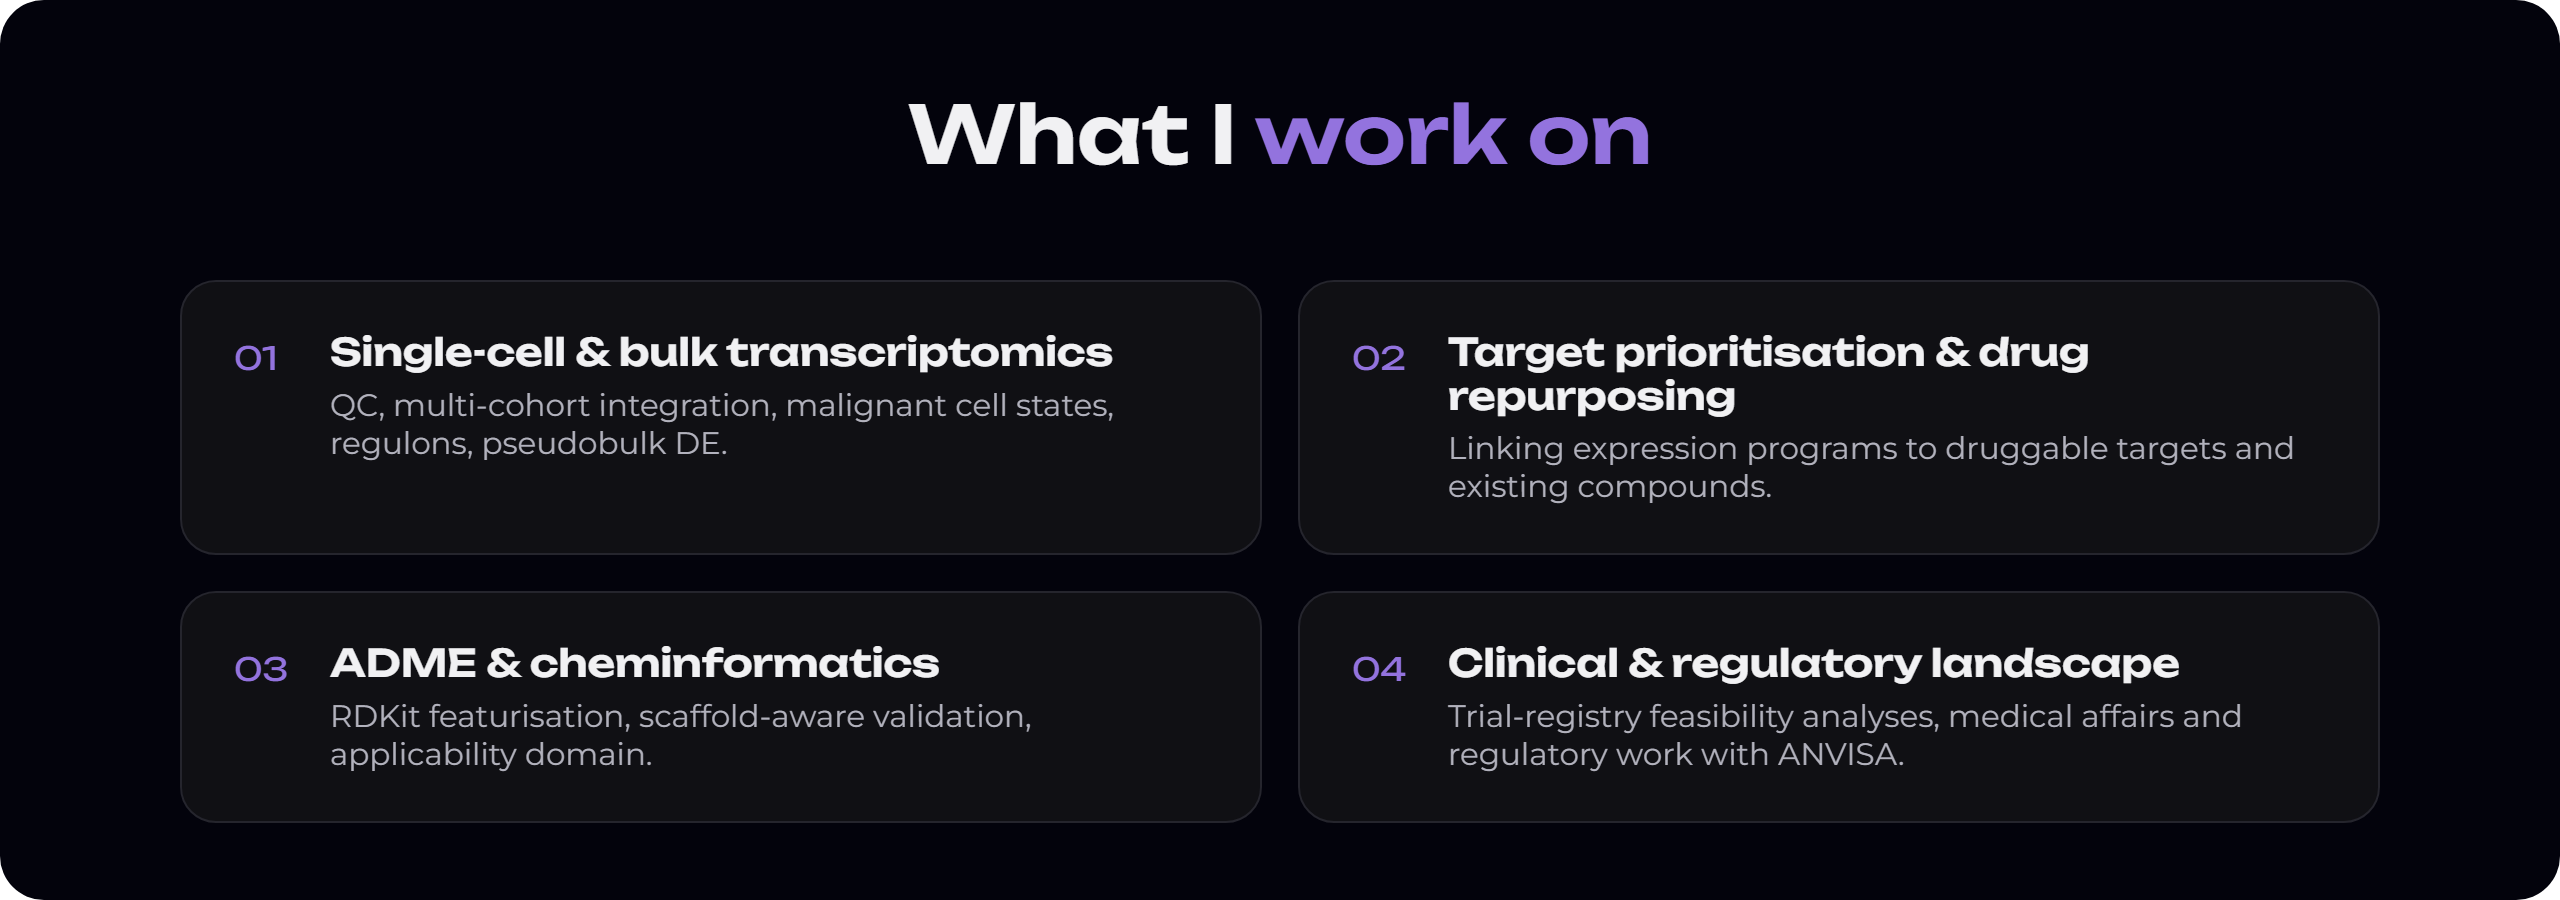
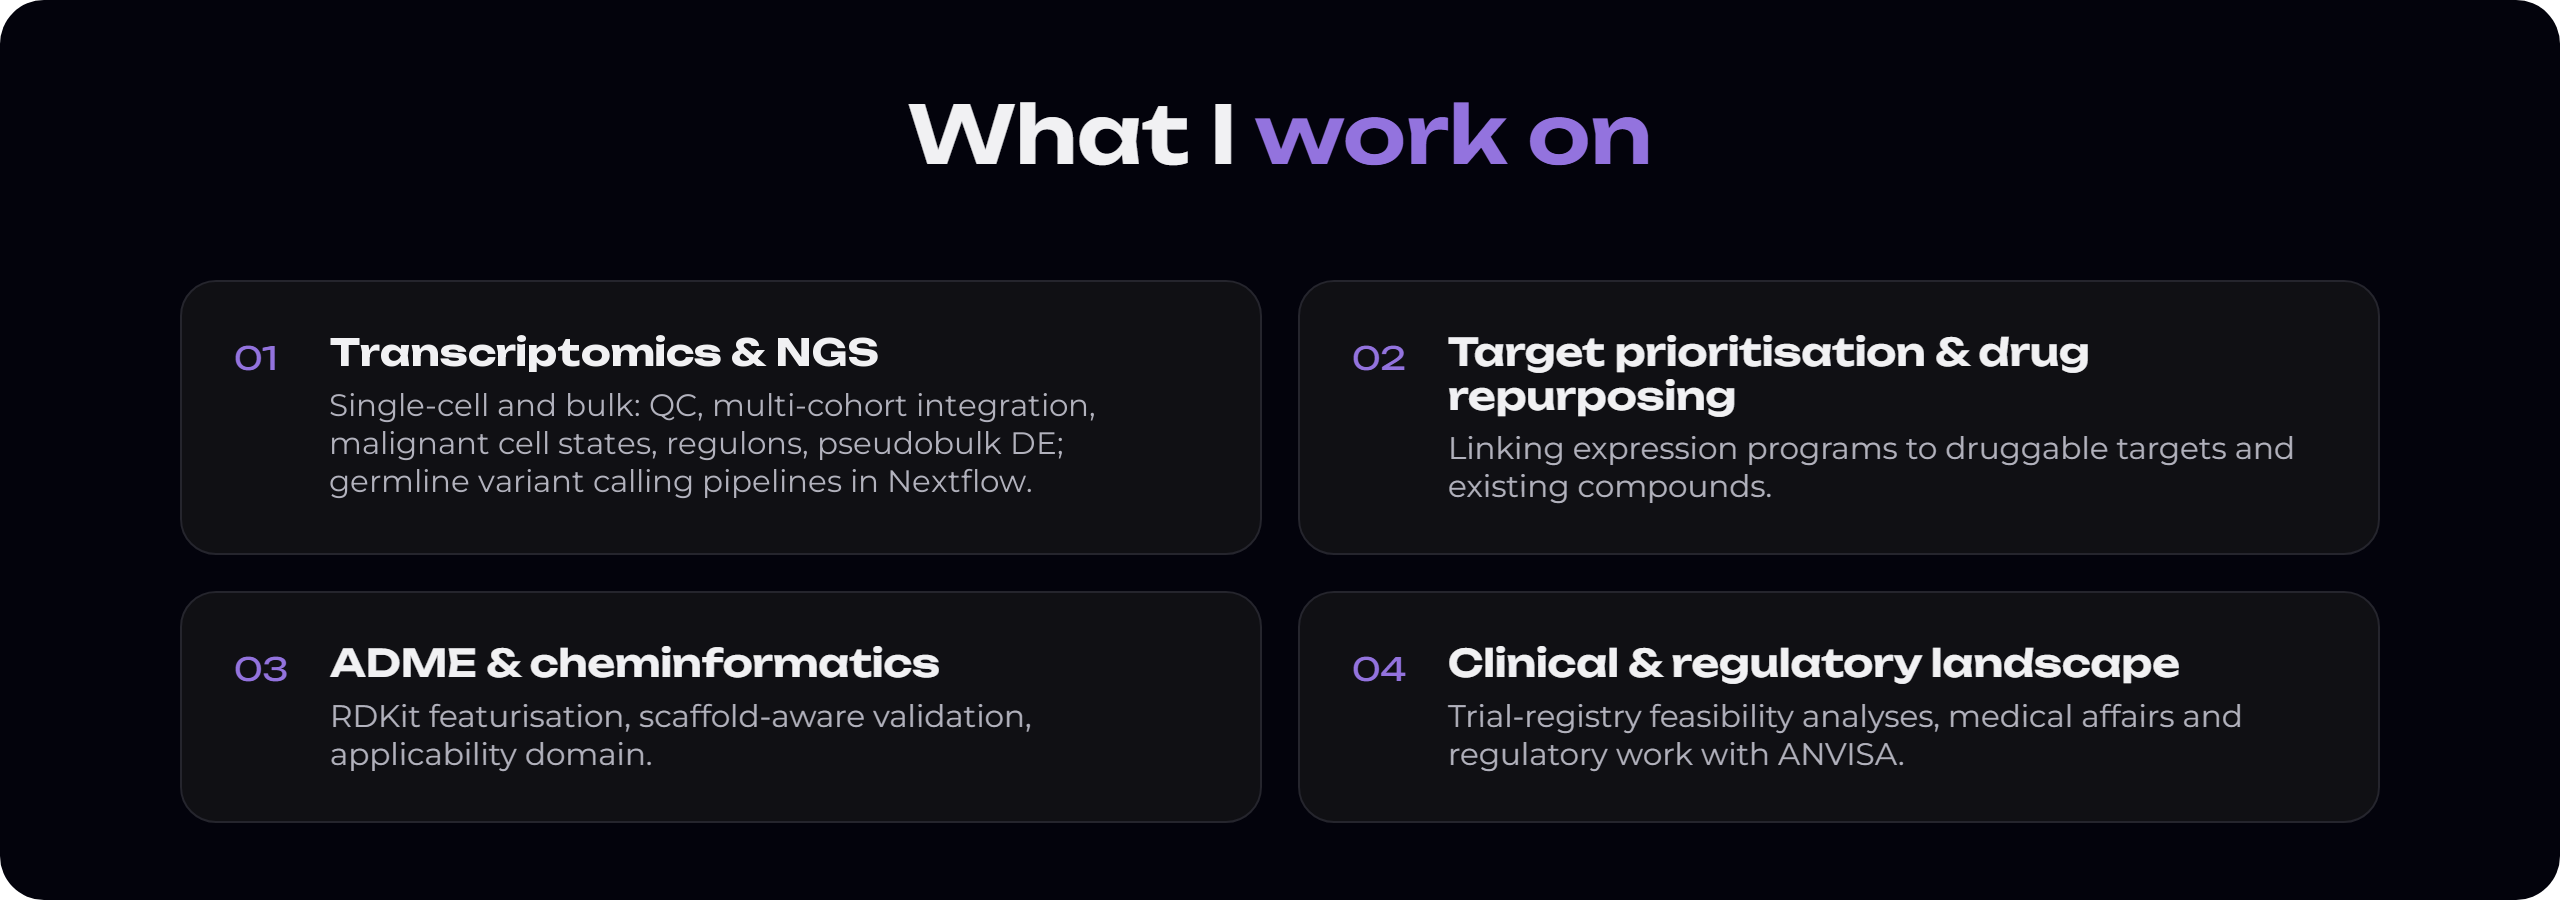
Add germline panel pipeline and NGS tools to profile

Changed region(s): [[0.125, 0.3733, 0.4375, 0.56]]

diff --git a/README.md b/README.md
@@ -2,24 +2,27 @@
   <img src="assets/hero.png" width="100%" alt="Thaís Dolzany. Translational oncology and bioinformatics. Pharmacist, PhD Universität zu Köln, São Paulo, Brazil.">
 </a>
 
-<img src="assets/about.png" width="100%" alt="About me. Pharmacist with a PhD in Biochemistry from the University of Cologne, where I studied extracellular vesicles and Lyn kinase signalling in chronic lymphocytic leukaemia. I now work on single-cell and bulk transcriptomics, target prioritisation and drug repurposing in cancer. 10+ years in research, 5 publications. Tools: R, Python, Seurat, Scanpy, pySCENIC, DESeq2, RDKit, XGBoost, scikit-learn, GEO, TCGA, cBioPortal.">
+<img src="assets/about.png" width="100%" alt="About me. Pharmacist with a PhD in Biochemistry from the University of Cologne, where I studied extracellular vesicles and Lyn kinase signalling in chronic lymphocytic leukaemia. I now work on single-cell and bulk transcriptomics, target prioritisation and drug repurposing in cancer. 10+ years in research, 5 publications. Tools: R, Python, Seurat, Scanpy, pySCENIC, DESeq2, RDKit, XGBoost, scikit-learn, GEO, TCGA, cBioPortal, Nextflow, bcftools.">
 
 <img src="assets/title-projects.png" width="100%" alt="Selected projects">
 
 <p align="center">
+  <a href="https://github.com/thaisdolzany/ngs-germline-panel-nf"><img src="assets/card-ngs-germline.png" width="49%" alt="ngs-germline-panel-nf: Nextflow pipeline for gene panels with QC, coverage, variant calling and annotation, checked against a truth set on every push: 131 of 132 variants found."></a>
   <a href="https://github.com/thaisdolzany/computational-pharmacology-portfolio/tree/main/melanoma-scrnaseq-resistance"><img src="assets/card-melanoma-resistance.png" width="49%" alt="Malignant resistance program in melanoma: pseudobulk reanalysis of 31 tumours; only 61 of 5,384 cell-level hits hold up, and EMP1 loss after treatment is the strongest signal."></a>
+</p>
+<p align="center">
   <a href="https://github.com/thaisdolzany/computational-pharmacology-portfolio/tree/main/solubility-scaffold-shift"><img src="assets/card-solubility.png" width="49%" alt="Solubility under scaffold shift: XGBoost RMSE 0.85 on a random split, 1.23 log units on unseen scaffolds, 9,145 molecules."></a>
-</p>
-<p align="center">
   <a href="https://github.com/thaisdolzany/computational-pharmacology-portfolio/tree/main/oncology-trials-brazil"><img src="assets/card-trials-brazil.png" width="49%" alt="Oncology trials in Brazil: 1,908 trials and 11,387 Brazilian sites from ClinicalTrials.gov."></a>
-  <a href="https://github.com/thaisdolzany/scanpy-lowmem"><img src="assets/card-scanpy-lowmem.png" width="49%" alt="scanpy-lowmem: integrate about 486k single cells on a 16 GB laptop, with tests and a memory benchmark."></a>
 </p>
 <p align="center">
+  <a href="https://github.com/thaisdolzany/scanpy-lowmem"><img src="assets/card-scanpy-lowmem.png" width="49%" alt="scanpy-lowmem: integrate about 486k single cells on a 16 GB laptop, with tests and a memory benchmark."></a>
   <a href="https://github.com/thaisdolzany/omics-fetch"><img src="assets/card-omics-fetch.png" width="49%" alt="omics-fetch: download scripts for GEO, cBioPortal and GDC cancer data, with size checks and tests."></a>
+</p>
+<p align="center">
   <a href="https://thaisdolzany.github.io/calculadora-plaqueamento/"><img src="assets/card-cell-seeding.png" width="49%" alt="Cell seeding calculator: bench tool for plates and flasks, with tested formulas."></a>
 </p>
 
-<img src="assets/expertise.png" width="100%" alt="What I work on: single-cell and bulk transcriptomics; target prioritisation and drug repurposing; ADME and cheminformatics; clinical and regulatory landscape.">
+<img src="assets/expertise.png" width="100%" alt="What I work on: transcriptomics and NGS (single-cell and bulk, germline variant calling pipelines in Nextflow); target prioritisation and drug repurposing; ADME and cheminformatics; clinical and regulatory landscape.">
 
 <img src="assets/experience.png" width="100%" alt="Experience: Responsible Pharmacist and Medical Affairs and Scientific Lead, Medra Brasil; University Lecturer in Pharmacy, Afya Universidade Unigranrio; research collaboration, LABEC, Universidade de Mogi das Cruzes; doctoral researcher, Universität zu Köln. Education: PhD in Biochemistry, Universität zu Köln; MSc in Biotechnology, Universidade de Mogi das Cruzes; postgraduate specialisations in Pharmacology and Regulatory Affairs; Pharmacy degree.">
 
